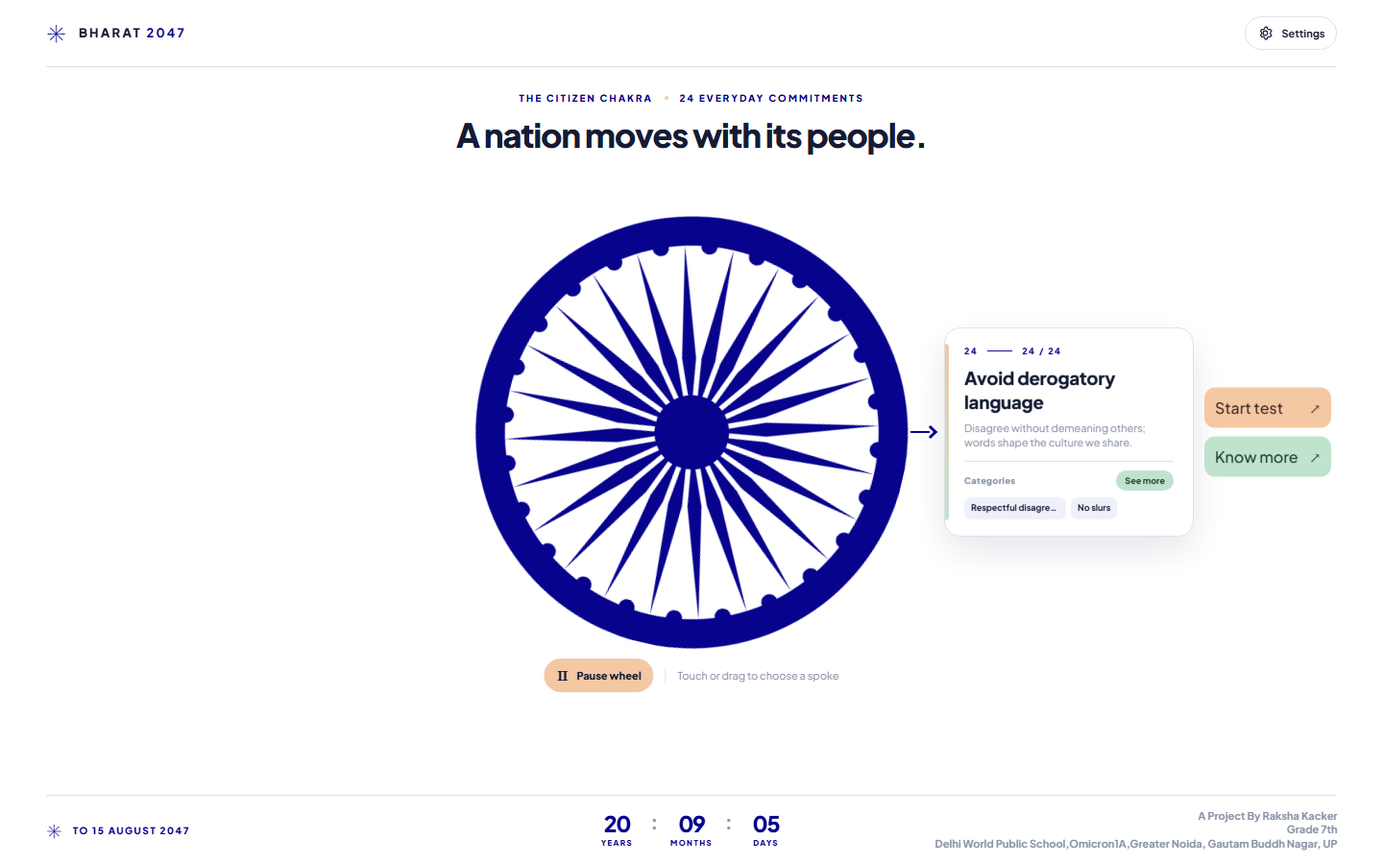
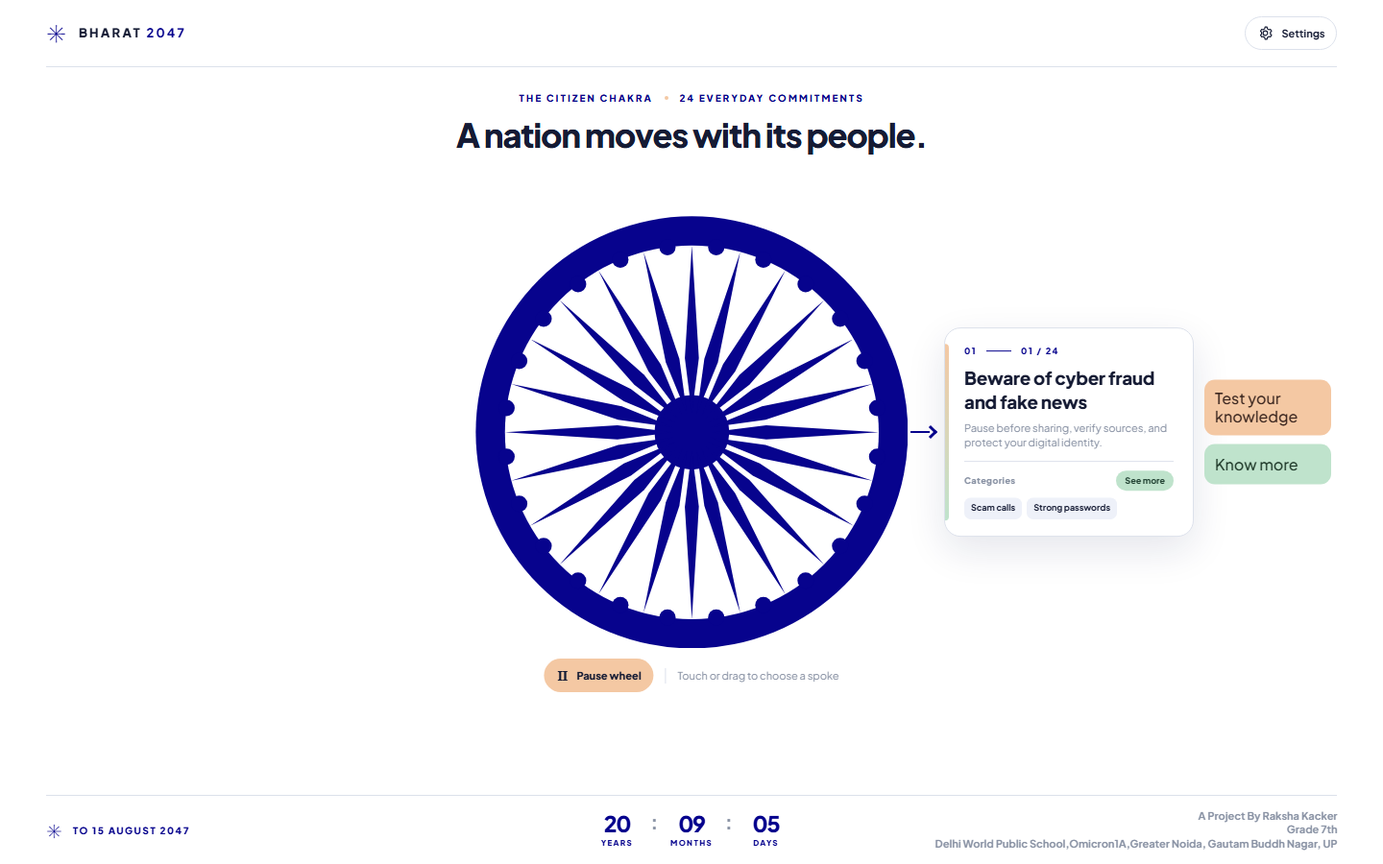
Rename test button to Test your knowledge

diff --git a/i18n.js b/i18n.js
@@ -1,7 +1,7 @@
 const UI = {
-  en:{settings:'Settings',appearance:'Appearance',darkMode:'Dark mode',wheelSound:'Wheel ticking sound',preferredLanguage:'Preferred language',english:'English',hindi:'Hindi',urdu:'Urdu',citizenChakra:'THE CITIZEN CHAKRA',commitments:'24 EVERYDAY COMMITMENTS',hero:'A nation moves with its people.',pauseWheel:'Pause wheel',resumeWheel:'Resume wheel',dragHint:'Touch or drag to choose a spoke',startTest:'Start test',knowMore:'Know more',countdownTo:'TO 15 AUGUST 2047',years:'YEARS',months:'MONTHS',days:'DAYS',footerLine:'Every day is a chance to move forward.',wheelAria:'Citizen commitment wheel. Drag or use arrow keys to choose a commitment.',selectedAria:'Selected commitment',back:'Back to Chakra',selfAssessment:'CITIZEN CHAKRA / SELF-ASSESSMENT',testLead:'Explore what you know and how you would act. Your answers stay on this device.',question:'QUESTION',of:'OF',multipleChoice:'MULTIPLE CHOICE',yourAnswer:'YOUR ANSWER',writeResponse:'WRITE YOUR RESPONSE',answerPlaceholder:'Write your thoughts here…',previous:'← Previous',next:'Next question →',results:'See results →',saved:'Saved on this device',testComplete:'TEST COMPLETE',yourReflection:'YOUR REFLECTION',resultHeading:'Your choices, your next step.',resultSummary:(correct,reflections)=>`You answered ${correct} of 12 multiple-choice questions correctly and completed ${reflections} of 12 written reflections. This is a personal learning check, not a formal assessment.`,learnMoreTopic:'Know more about this topic →',reviewAnswers:'Review answers',knowMoreKicker:'CITIZEN CHAKRA / KNOW MORE',point:'POINT',theProblem:'THE PROBLEM',whatChange:'What needs to change?',beliefReality:'BELIEF & REALITY',lookBeyond:'Look beyond assumptions.',commonMyth:'COMMON MYTH',whatMatters:'WHAT MATTERS',everydayAction:'EVERYDAY ACTION',threeWays:'Three ways to begin',watchFor:'WATCH FOR',habitsBehind:'Habits to leave behind',learnFooter:'Small choices, repeated by millions, shape 2047.',start24:'Start the 24-question test →',qAction:t=>`Which action would help with “${t.short}”?`,qSuggestion:r=>`Someone suggests: “${r}.” What is a better choice?`,qAvoid:'Which habit should we leave behind?',qAccurate:'Which statement is more accurate?',qChallenge:'What is the main challenge behind this commitment?',qThisWeek:'Which step could you begin with this week?',wrong1:'There is no need to think about this issue.',wrong2:'Only other people have a role to play.',wrong3:'There is no real challenge.',wrong4:'Individual choices never affect others.',wrong5:'The topic only matters in the distant future.',wAction:a=>`How could you put this into practice in your own life: ${a.toLowerCase()}?`,wRisk:r=>`If you noticed someone doing this, how would you respond respectfully: ${r.toLowerCase()}?`,wMyth:m=>`What would you say to someone who believes this myth: “${m}”?`,wProblem:p=>`Where have you seen this problem, or something similar, in your community: ${p.toLowerCase()}?`,wWhy:s=>`Why does “${s}” matter to other people, not only to you?`,wFamily:s=>`How could a family or school make progress on “${s}”?`,wCommunity:'What could neighbours or a local group do together to support this commitment?',wPromise:s=>`Write one specific step you will take this week toward “${s}”.`},
-  hi:{settings:'सेटिंग्स',appearance:'दिखावट',darkMode:'डार्क मोड',wheelSound:'चक्र की टिक-टिक',preferredLanguage:'पसंदीदा भाषा',english:'अंग्रेज़ी',hindi:'हिन्दी',urdu:'उर्दू',citizenChakra:'नागरिक चक्र',commitments:'रोज़मर्रा के 24 संकल्प',hero:'देश अपने लोगों से आगे बढ़ता है।',pauseWheel:'चक्र रोकें',resumeWheel:'चक्र चलाएँ',dragHint:'तीली चुनने के लिए चक्र घुमाएँ',startTest:'परीक्षा शुरू करें',knowMore:'और जानें',countdownTo:'15 अगस्त 2047 तक',years:'वर्ष',months:'महीने',days:'दिन',footerLine:'हर दिन आगे बढ़ने का अवसर है।',wheelAria:'नागरिक संकल्प चक्र। संकल्प चुनने के लिए घुमाएँ या तीर कुंजियाँ दबाएँ।',selectedAria:'चुना हुआ संकल्प',back:'चक्र पर लौटें',selfAssessment:'नागरिक चक्र / स्व-मूल्यांकन',testLead:'जानें कि आप क्या जानते हैं और कैसे कदम उठाएँगे। आपके उत्तर इसी डिवाइस पर रहेंगे।',question:'प्रश्न',of:'में से',multipleChoice:'बहुविकल्पीय',yourAnswer:'आपका उत्तर',writeResponse:'अपना उत्तर लिखें',answerPlaceholder:'अपने विचार यहाँ लिखें…',previous:'← पिछला',next:'अगला प्रश्न →',results:'परिणाम देखें →',saved:'इस डिवाइस पर सुरक्षित',testComplete:'परीक्षा पूरी हुई',yourReflection:'आपका विचार',resultHeading:'आपके चुनाव, आपका अगला कदम।',resultSummary:(correct,reflections)=>`आपने 12 में से ${correct} बहुविकल्पीय प्रश्न सही किए और 12 में से ${reflections} लिखित उत्तर पूरे किए। यह सीखने का व्यक्तिगत अभ्यास है, औपचारिक परीक्षा नहीं।`,learnMoreTopic:'इस विषय पर और जानें →',reviewAnswers:'उत्तर देखें',knowMoreKicker:'नागरिक चक्र / और जानें',point:'बिंदु',theProblem:'समस्या',whatChange:'क्या बदलना ज़रूरी है?',beliefReality:'धारणा और सच्चाई',lookBeyond:'धारणाओं से आगे देखें।',commonMyth:'आम गलत धारणा',whatMatters:'असल बात',everydayAction:'रोज़ का कदम',threeWays:'शुरू करने के तीन तरीके',watchFor:'इनसे बचें',habitsBehind:'छोड़ने लायक आदतें',learnFooter:'लाखों लोगों के छोटे कदम 2047 को आकार देंगे।',start24:'24 प्रश्नों की परीक्षा शुरू करें →',qAction:t=>`“${t.short}” के लिए कौन-सा कदम सही है?`,qSuggestion:r=>`कोई कहता है: “${r}।” बेहतर चुनाव क्या होगा?`,qAvoid:'कौन-सी आदत छोड़नी चाहिए?',qAccurate:'कौन-सा कथन सही है?',qChallenge:'इस संकल्प के सामने मुख्य चुनौती क्या है?',qThisWeek:'इस हफ़्ते आप कौन-सा कदम उठा सकते हैं?',wrong1:'इस विषय पर सोचने की ज़रूरत नहीं है।',wrong2:'सिर्फ़ दूसरों की ज़िम्मेदारी है।',wrong3:'कोई वास्तविक चुनौती नहीं है।',wrong4:'व्यक्तिगत चुनावों का दूसरों पर असर नहीं पड़ता।',wrong5:'यह विषय केवल दूर के भविष्य के लिए है।',wAction:a=>`इसे अपने जीवन में कैसे अपनाएँगे: ${a}?`,wRisk:r=>`अगर कोई ऐसा करे तो आप सम्मानपूर्वक कैसे प्रतिक्रिया देंगे: ${r}?`,wMyth:m=>`इस गलत धारणा को मानने वाले से आप क्या कहेंगे: “${m}”?`,wProblem:p=>`अपने आसपास आपने यह समस्या कहाँ देखी है: ${p}?`,wWhy:s=>`“${s}” दूसरों के लिए भी क्यों ज़रूरी है?`,wFamily:s=>`परिवार या स्कूल “${s}” पर कैसे आगे बढ़ सकता है?`,wCommunity:'इस संकल्प के लिए पड़ोसी मिलकर क्या कर सकते हैं?',wPromise:s=>`“${s}” के लिए इस हफ़्ते उठाने वाला एक कदम लिखें।`},
-  ur:{settings:'ترتیبات',appearance:'ظاہری شکل',darkMode:'ڈارک موڈ',wheelSound:'چکر کی ٹک ٹک',preferredLanguage:'ترجیحی زبان',english:'انگریزی',hindi:'ہندی',urdu:'اردو',citizenChakra:'شہری چکر',commitments:'روزمرہ کے ۲۴ عہد',hero:'قوم اپنے لوگوں سے آگے بڑھتی ہے۔',pauseWheel:'چکر روکیں',resumeWheel:'چکر چلائیں',dragHint:'تیلی چننے کے لیے چکر گھمائیں',startTest:'ٹیسٹ شروع کریں',knowMore:'مزید جانیں',countdownTo:'۱۵ اگست ۲۰۴۷ تک',years:'سال',months:'مہینے',days:'دن',footerLine:'ہر دن آگے بڑھنے کا موقع ہے۔',wheelAria:'شہری عہد کا چکر۔ عہد چننے کے لیے گھمائیں یا تیر والے بٹن دبائیں۔',selectedAria:'منتخب عہد',back:'چکر پر واپس',selfAssessment:'شہری چکر / خود جائزہ',testLead:'جانیں کہ آپ کیا جانتے ہیں اور کیسے عمل کریں گے۔ آپ کے جواب اسی آلے پر رہیں گے۔',question:'سوال',of:'میں سے',multipleChoice:'کثیرالانتخاب',yourAnswer:'آپ کا جواب',writeResponse:'اپنا جواب لکھیں',answerPlaceholder:'اپنے خیالات یہاں لکھیں…',previous:'← پچھلا',next:'اگلا سوال ←',results:'نتائج دیکھیں ←',saved:'اسی آلے پر محفوظ',testComplete:'ٹیسٹ مکمل',yourReflection:'آپ کی رائے',resultHeading:'آپ کے انتخاب، آپ کا اگلا قدم۔',resultSummary:(correct,reflections)=>`آپ نے ۱۲ میں سے ${correct} کثیرالانتخاب سوال درست کیے اور ۱۲ میں سے ${reflections} تحریری جواب مکمل کیے۔ یہ ذاتی سیکھنے کی مشق ہے، باقاعدہ امتحان نہیں۔`,learnMoreTopic:'اس موضوع پر مزید جانیں ←',reviewAnswers:'جواب دیکھیں',knowMoreKicker:'شہری چکر / مزید جانیں',point:'نکتہ',theProblem:'مسئلہ',whatChange:'کیا بدلنا ضروری ہے؟',beliefReality:'خیال اور حقیقت',lookBeyond:'مفروضوں سے آگے دیکھیں۔',commonMyth:'عام غلط خیال',whatMatters:'اصل بات',everydayAction:'روزمرہ کا عمل',threeWays:'شروع کرنے کے تین طریقے',watchFor:'ان سے بچیں',habitsBehind:'چھوڑنے والی عادتیں',learnFooter:'لاکھوں لوگوں کے چھوٹے قدم ۲۰۴۷ کی شکل بنائیں گے۔',start24:'۲۴ سوالوں کا ٹیسٹ شروع کریں ←',qAction:t=>`“${t.short}” کے لیے کون سا قدم درست ہے؟`,qSuggestion:r=>`کوئی کہتا ہے: “${r}۔” بہتر انتخاب کیا ہوگا؟`,qAvoid:'کون سی عادت چھوڑنی چاہیے؟',qAccurate:'کون سا بیان درست ہے؟',qChallenge:'اس عہد کے سامنے اصل مسئلہ کیا ہے؟',qThisWeek:'اس ہفتے آپ کون سا قدم اٹھا سکتے ہیں؟',wrong1:'اس مسئلے پر سوچنے کی ضرورت نہیں۔',wrong2:'یہ صرف دوسروں کی ذمہ داری ہے۔',wrong3:'کوئی حقیقی مسئلہ نہیں۔',wrong4:'ذاتی فیصلوں کا دوسروں پر اثر نہیں ہوتا۔',wrong5:'یہ موضوع صرف دور کے مستقبل کے لیے ہے۔',wAction:a=>`آپ اسے اپنی زندگی میں کیسے اپنائیں گے: ${a}؟`,wRisk:r=>`اگر کوئی ایسا کرے تو آپ احترام سے کیسے جواب دیں گے: ${r}؟`,wMyth:m=>`اس غلط خیال کے بارے میں آپ کیا کہیں گے: “${m}”؟`,wProblem:p=>`اپنے آس پاس آپ نے یہ مسئلہ کہاں دیکھا ہے: ${p}؟`,wWhy:s=>`“${s}” دوسروں کے لیے بھی کیوں اہم ہے؟`,wFamily:s=>`گھر یا اسکول “${s}” کے لیے کیا کر سکتا ہے؟`,wCommunity:'اس عہد کے لیے پڑوسی مل کر کیا کر سکتے ہیں؟',wPromise:s=>`“${s}” کے لیے اس ہفتے کا ایک قدم لکھیں۔`}
+  en:{settings:'Settings',appearance:'Appearance',darkMode:'Dark mode',wheelSound:'Wheel ticking sound',preferredLanguage:'Preferred language',english:'English',hindi:'Hindi',urdu:'Urdu',citizenChakra:'THE CITIZEN CHAKRA',commitments:'24 EVERYDAY COMMITMENTS',hero:'A nation moves with its people.',pauseWheel:'Pause wheel',resumeWheel:'Resume wheel',dragHint:'Touch or drag to choose a spoke',startTest:'Test your knowledge',knowMore:'Know more',countdownTo:'TO 15 AUGUST 2047',years:'YEARS',months:'MONTHS',days:'DAYS',footerLine:'Every day is a chance to move forward.',wheelAria:'Citizen commitment wheel. Drag or use arrow keys to choose a commitment.',selectedAria:'Selected commitment',back:'Back to Chakra',selfAssessment:'CITIZEN CHAKRA / SELF-ASSESSMENT',testLead:'Explore what you know and how you would act. Your answers stay on this device.',question:'QUESTION',of:'OF',multipleChoice:'MULTIPLE CHOICE',yourAnswer:'YOUR ANSWER',writeResponse:'WRITE YOUR RESPONSE',answerPlaceholder:'Write your thoughts here…',previous:'← Previous',next:'Next question →',results:'See results →',saved:'Saved on this device',testComplete:'TEST COMPLETE',yourReflection:'YOUR REFLECTION',resultHeading:'Your choices, your next step.',resultSummary:(correct,reflections)=>`You answered ${correct} of 12 multiple-choice questions correctly and completed ${reflections} of 12 written reflections. This is a personal learning check, not a formal assessment.`,learnMoreTopic:'Know more about this topic →',reviewAnswers:'Review answers',knowMoreKicker:'CITIZEN CHAKRA / KNOW MORE',point:'POINT',theProblem:'THE PROBLEM',whatChange:'What needs to change?',beliefReality:'BELIEF & REALITY',lookBeyond:'Look beyond assumptions.',commonMyth:'COMMON MYTH',whatMatters:'WHAT MATTERS',everydayAction:'EVERYDAY ACTION',threeWays:'Three ways to begin',watchFor:'WATCH FOR',habitsBehind:'Habits to leave behind',learnFooter:'Small choices, repeated by millions, shape 2047.',start24:'Start the 24-question test →',qAction:t=>`Which action would help with “${t.short}”?`,qSuggestion:r=>`Someone suggests: “${r}.” What is a better choice?`,qAvoid:'Which habit should we leave behind?',qAccurate:'Which statement is more accurate?',qChallenge:'What is the main challenge behind this commitment?',qThisWeek:'Which step could you begin with this week?',wrong1:'There is no need to think about this issue.',wrong2:'Only other people have a role to play.',wrong3:'There is no real challenge.',wrong4:'Individual choices never affect others.',wrong5:'The topic only matters in the distant future.',wAction:a=>`How could you put this into practice in your own life: ${a.toLowerCase()}?`,wRisk:r=>`If you noticed someone doing this, how would you respond respectfully: ${r.toLowerCase()}?`,wMyth:m=>`What would you say to someone who believes this myth: “${m}”?`,wProblem:p=>`Where have you seen this problem, or something similar, in your community: ${p.toLowerCase()}?`,wWhy:s=>`Why does “${s}” matter to other people, not only to you?`,wFamily:s=>`How could a family or school make progress on “${s}”?`,wCommunity:'What could neighbours or a local group do together to support this commitment?',wPromise:s=>`Write one specific step you will take this week toward “${s}”.`},
+  hi:{settings:'सेटिंग्स',appearance:'दिखावट',darkMode:'डार्क मोड',wheelSound:'चक्र की टिक-टिक',preferredLanguage:'पसंदीदा भाषा',english:'अंग्रेज़ी',hindi:'हिन्दी',urdu:'उर्दू',citizenChakra:'नागरिक चक्र',commitments:'रोज़मर्रा के 24 संकल्प',hero:'देश अपने लोगों से आगे बढ़ता है।',pauseWheel:'चक्र रोकें',resumeWheel:'चक्र चलाएँ',dragHint:'तीली चुनने के लिए चक्र घुमाएँ',startTest:'अपना ज्ञान परखें',knowMore:'और जानें',countdownTo:'15 अगस्त 2047 तक',years:'वर्ष',months:'महीने',days:'दिन',footerLine:'हर दिन आगे बढ़ने का अवसर है।',wheelAria:'नागरिक संकल्प चक्र। संकल्प चुनने के लिए घुमाएँ या तीर कुंजियाँ दबाएँ।',selectedAria:'चुना हुआ संकल्प',back:'चक्र पर लौटें',selfAssessment:'नागरिक चक्र / स्व-मूल्यांकन',testLead:'जानें कि आप क्या जानते हैं और कैसे कदम उठाएँगे। आपके उत्तर इसी डिवाइस पर रहेंगे।',question:'प्रश्न',of:'में से',multipleChoice:'बहुविकल्पीय',yourAnswer:'आपका उत्तर',writeResponse:'अपना उत्तर लिखें',answerPlaceholder:'अपने विचार यहाँ लिखें…',previous:'← पिछला',next:'अगला प्रश्न →',results:'परिणाम देखें →',saved:'इस डिवाइस पर सुरक्षित',testComplete:'परीक्षा पूरी हुई',yourReflection:'आपका विचार',resultHeading:'आपके चुनाव, आपका अगला कदम।',resultSummary:(correct,reflections)=>`आपने 12 में से ${correct} बहुविकल्पीय प्रश्न सही किए और 12 में से ${reflections} लिखित उत्तर पूरे किए। यह सीखने का व्यक्तिगत अभ्यास है, औपचारिक परीक्षा नहीं।`,learnMoreTopic:'इस विषय पर और जानें →',reviewAnswers:'उत्तर देखें',knowMoreKicker:'नागरिक चक्र / और जानें',point:'बिंदु',theProblem:'समस्या',whatChange:'क्या बदलना ज़रूरी है?',beliefReality:'धारणा और सच्चाई',lookBeyond:'धारणाओं से आगे देखें।',commonMyth:'आम गलत धारणा',whatMatters:'असल बात',everydayAction:'रोज़ का कदम',threeWays:'शुरू करने के तीन तरीके',watchFor:'इनसे बचें',habitsBehind:'छोड़ने लायक आदतें',learnFooter:'लाखों लोगों के छोटे कदम 2047 को आकार देंगे।',start24:'24 प्रश्नों की परीक्षा शुरू करें →',qAction:t=>`“${t.short}” के लिए कौन-सा कदम सही है?`,qSuggestion:r=>`कोई कहता है: “${r}।” बेहतर चुनाव क्या होगा?`,qAvoid:'कौन-सी आदत छोड़नी चाहिए?',qAccurate:'कौन-सा कथन सही है?',qChallenge:'इस संकल्प के सामने मुख्य चुनौती क्या है?',qThisWeek:'इस हफ़्ते आप कौन-सा कदम उठा सकते हैं?',wrong1:'इस विषय पर सोचने की ज़रूरत नहीं है।',wrong2:'सिर्फ़ दूसरों की ज़िम्मेदारी है।',wrong3:'कोई वास्तविक चुनौती नहीं है।',wrong4:'व्यक्तिगत चुनावों का दूसरों पर असर नहीं पड़ता।',wrong5:'यह विषय केवल दूर के भविष्य के लिए है।',wAction:a=>`इसे अपने जीवन में कैसे अपनाएँगे: ${a}?`,wRisk:r=>`अगर कोई ऐसा करे तो आप सम्मानपूर्वक कैसे प्रतिक्रिया देंगे: ${r}?`,wMyth:m=>`इस गलत धारणा को मानने वाले से आप क्या कहेंगे: “${m}”?`,wProblem:p=>`अपने आसपास आपने यह समस्या कहाँ देखी है: ${p}?`,wWhy:s=>`“${s}” दूसरों के लिए भी क्यों ज़रूरी है?`,wFamily:s=>`परिवार या स्कूल “${s}” पर कैसे आगे बढ़ सकता है?`,wCommunity:'इस संकल्प के लिए पड़ोसी मिलकर क्या कर सकते हैं?',wPromise:s=>`“${s}” के लिए इस हफ़्ते उठाने वाला एक कदम लिखें।`},
+  ur:{settings:'ترتیبات',appearance:'ظاہری شکل',darkMode:'ڈارک موڈ',wheelSound:'چکر کی ٹک ٹک',preferredLanguage:'ترجیحی زبان',english:'انگریزی',hindi:'ہندی',urdu:'اردو',citizenChakra:'شہری چکر',commitments:'روزمرہ کے ۲۴ عہد',hero:'قوم اپنے لوگوں سے آگے بڑھتی ہے۔',pauseWheel:'چکر روکیں',resumeWheel:'چکر چلائیں',dragHint:'تیلی چننے کے لیے چکر گھمائیں',startTest:'اپنا علم آزمائیں',knowMore:'مزید جانیں',countdownTo:'۱۵ اگست ۲۰۴۷ تک',years:'سال',months:'مہینے',days:'دن',footerLine:'ہر دن آگے بڑھنے کا موقع ہے۔',wheelAria:'شہری عہد کا چکر۔ عہد چننے کے لیے گھمائیں یا تیر والے بٹن دبائیں۔',selectedAria:'منتخب عہد',back:'چکر پر واپس',selfAssessment:'شہری چکر / خود جائزہ',testLead:'جانیں کہ آپ کیا جانتے ہیں اور کیسے عمل کریں گے۔ آپ کے جواب اسی آلے پر رہیں گے۔',question:'سوال',of:'میں سے',multipleChoice:'کثیرالانتخاب',yourAnswer:'آپ کا جواب',writeResponse:'اپنا جواب لکھیں',answerPlaceholder:'اپنے خیالات یہاں لکھیں…',previous:'← پچھلا',next:'اگلا سوال ←',results:'نتائج دیکھیں ←',saved:'اسی آلے پر محفوظ',testComplete:'ٹیسٹ مکمل',yourReflection:'آپ کی رائے',resultHeading:'آپ کے انتخاب، آپ کا اگلا قدم۔',resultSummary:(correct,reflections)=>`آپ نے ۱۲ میں سے ${correct} کثیرالانتخاب سوال درست کیے اور ۱۲ میں سے ${reflections} تحریری جواب مکمل کیے۔ یہ ذاتی سیکھنے کی مشق ہے، باقاعدہ امتحان نہیں۔`,learnMoreTopic:'اس موضوع پر مزید جانیں ←',reviewAnswers:'جواب دیکھیں',knowMoreKicker:'شہری چکر / مزید جانیں',point:'نکتہ',theProblem:'مسئلہ',whatChange:'کیا بدلنا ضروری ہے؟',beliefReality:'خیال اور حقیقت',lookBeyond:'مفروضوں سے آگے دیکھیں۔',commonMyth:'عام غلط خیال',whatMatters:'اصل بات',everydayAction:'روزمرہ کا عمل',threeWays:'شروع کرنے کے تین طریقے',watchFor:'ان سے بچیں',habitsBehind:'چھوڑنے والی عادتیں',learnFooter:'لاکھوں لوگوں کے چھوٹے قدم ۲۰۴۷ کی شکل بنائیں گے۔',start24:'۲۴ سوالوں کا ٹیسٹ شروع کریں ←',qAction:t=>`“${t.short}” کے لیے کون سا قدم درست ہے؟`,qSuggestion:r=>`کوئی کہتا ہے: “${r}۔” بہتر انتخاب کیا ہوگا؟`,qAvoid:'کون سی عادت چھوڑنی چاہیے؟',qAccurate:'کون سا بیان درست ہے؟',qChallenge:'اس عہد کے سامنے اصل مسئلہ کیا ہے؟',qThisWeek:'اس ہفتے آپ کون سا قدم اٹھا سکتے ہیں؟',wrong1:'اس مسئلے پر سوچنے کی ضرورت نہیں۔',wrong2:'یہ صرف دوسروں کی ذمہ داری ہے۔',wrong3:'کوئی حقیقی مسئلہ نہیں۔',wrong4:'ذاتی فیصلوں کا دوسروں پر اثر نہیں ہوتا۔',wrong5:'یہ موضوع صرف دور کے مستقبل کے لیے ہے۔',wAction:a=>`آپ اسے اپنی زندگی میں کیسے اپنائیں گے: ${a}؟`,wRisk:r=>`اگر کوئی ایسا کرے تو آپ احترام سے کیسے جواب دیں گے: ${r}؟`,wMyth:m=>`اس غلط خیال کے بارے میں آپ کیا کہیں گے: “${m}”؟`,wProblem:p=>`اپنے آس پاس آپ نے یہ مسئلہ کہاں دیکھا ہے: ${p}؟`,wWhy:s=>`“${s}” دوسروں کے لیے بھی کیوں اہم ہے؟`,wFamily:s=>`گھر یا اسکول “${s}” کے لیے کیا کر سکتا ہے؟`,wCommunity:'اس عہد کے لیے پڑوسی مل کر کیا کر سکتے ہیں؟',wPromise:s=>`“${s}” کے لیے اس ہفتے کا ایک قدم لکھیں۔`}
 };
 
 UI.en.categories='Categories'; UI.en.seeMore='See more'; UI.en.seeLess='See less';

diff --git a/index.html b/index.html
@@ -34,7 +34,7 @@
         <div class="selection-marker" aria-hidden="true"><span></span></div>
       </section>
       <div class="wheel-controls"><button id="playPause" class="play-button" type="button" aria-label="Pause wheel"><span id="playIcon" aria-hidden="true">Ⅱ</span><span id="playLabel" data-i18n="pauseWheel">Pause wheel</span></button><span class="control-divider"></span><span class="drag-hint" data-i18n="dragHint">Touch or drag to choose a spoke</span></div>
-      <section class="focus-panel" id="focusPanel" aria-label="Selected commitment" aria-live="polite"><div class="focus-topline"><span id="focusNumber">01</span><span class="focus-rule"></span><span id="focusCounter">01 / 24</span></div><h2 id="focusTitle"></h2><p id="focusDescription"></p><div class="category-block"><div class="category-head"><span data-i18n="categories">Categories</span><button id="categoryToggle" type="button" aria-expanded="false" aria-controls="categoryList"></button></div><div id="categoryList" class="category-list"></div></div><div class="focus-actions"><a id="startTest" class="focus-action primary-action" href="test.html?topic=0"><span data-i18n="startTest">Start test</span></a><a id="knowMore" class="focus-action secondary-action" href="learn.html?topic=0"><span data-i18n="knowMore">Know more</span></a></div></section>
+      <section class="focus-panel" id="focusPanel" aria-label="Selected commitment" aria-live="polite"><div class="focus-topline"><span id="focusNumber">01</span><span class="focus-rule"></span><span id="focusCounter">01 / 24</span></div><h2 id="focusTitle"></h2><p id="focusDescription"></p><div class="category-block"><div class="category-head"><span data-i18n="categories">Categories</span><button id="categoryToggle" type="button" aria-expanded="false" aria-controls="categoryList"></button></div><div id="categoryList" class="category-list"></div></div><div class="focus-actions"><a id="startTest" class="focus-action primary-action" href="test.html?topic=0"><span data-i18n="startTest">Test your knowledge</span></a><a id="knowMore" class="focus-action secondary-action" href="learn.html?topic=0"><span data-i18n="knowMore">Know more</span></a></div></section>
     </main>
 
     <footer class="footer"><div class="countdown-label"><span class="small-star">✳</span><span data-i18n="countdownTo">TO 15 AUGUST 2047</span></div><div class="countdown" aria-label="Countdown to 15 August 2047"><div><strong id="years">20</strong><span data-i18n="years">YEARS</span></div><i>:</i><div><strong id="months">09</strong><span data-i18n="months">MONTHS</span></div><i>:</i><div><strong id="days">05</strong><span data-i18n="days">DAYS</span></div></div><p class="project-credit"><span>A Project By Raksha Kacker</span><span>Grade 7th</span><span>Delhi World Public School,Omicron1A,Greater Noida, Gautam Buddh Nagar, UP</span></p></footer>

diff --git a/README.md b/README.md
@@ -17,7 +17,7 @@ An interactive web app about 24 everyday commitments that citizens can make towa
 ## Features
 
 - A 24-spoke Chakra that advances clockwise once a second, can be paused, and can be turned by touch, pointer, or arrow keys.
-- A selected commitment panel with categories, **See more / See less**, **Start test**, and **Know more**.
+- A selected commitment panel with categories, **See more / See less**, **Test your knowledge**, and **Know more**.
 - A 24-question test for each commitment, mixing multiple-choice and written responses. Answers are saved on the device.
 - A topic page covering the problem, a common myth, practical actions, and habits to avoid.
 - English, Hindi, and Urdu interfaces, plus light/dark appearance and wheel sound controls in Settings.
